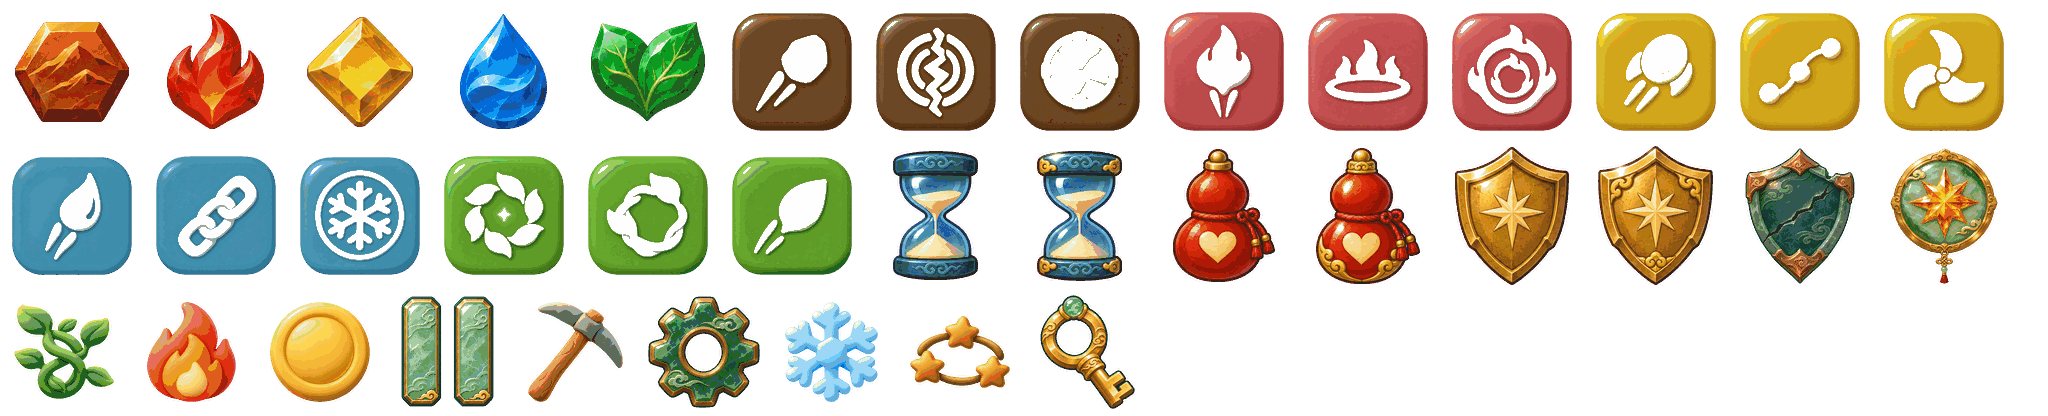
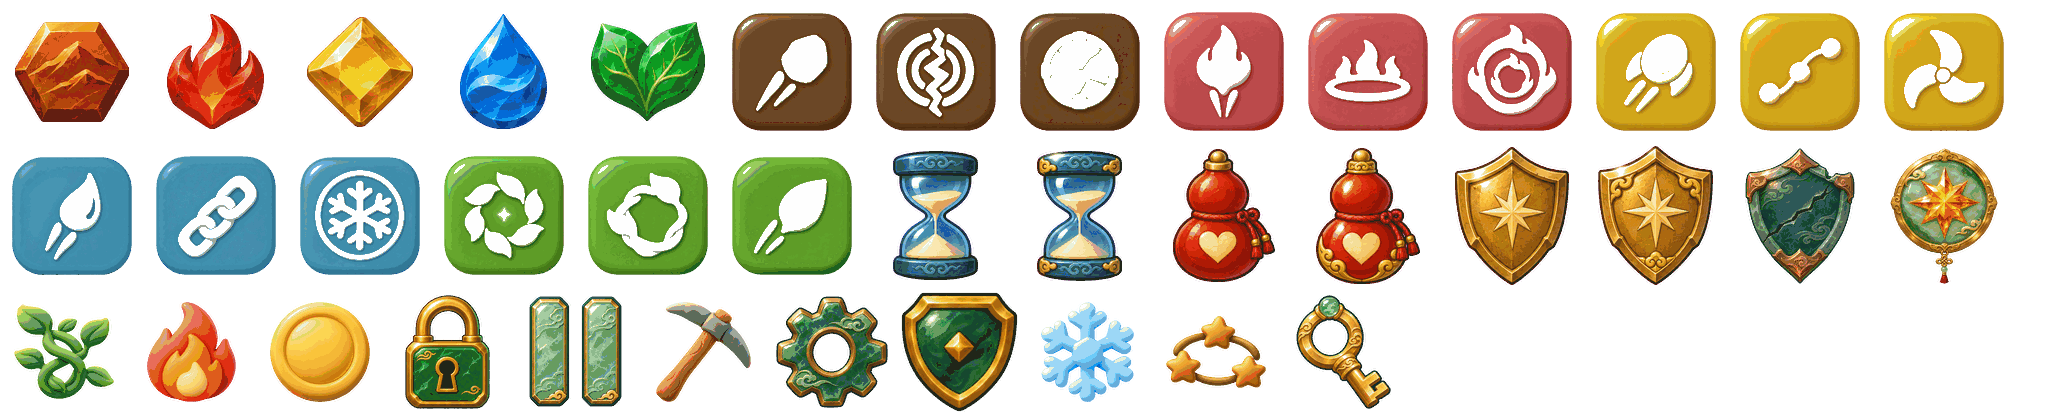
feat(ui): 替换战斗状态与关卡锁图标

diff --git a/scripts/ui/render.js b/scripts/ui/render.js
@@ -50,15 +50,14 @@ export function enemyHealthViewOf(e) { return e ? _enemyHv.get(e) || null : null
 import { LEVEL_META, WAVES_PER_LEVEL } from '../meta/levels.js'; // M11 UI 设计稿:关卡名/建议等级
 import { expNeed, levelFromExp } from '../meta/exp.js'; // M11 选关/备战顶栏经验条
 
-const ITEM_ICON = { heal: '❤', invincible: '✦', cd: '⏱' };
+const ITEM_ICON = { heal: '愈', invincible: '盾', cd: '时' };
 const TOAST_BOUNDS = { left: 180, top: 160, right: 540, bottom: 204 };
 const ITEM_STYLE = {
   heal: { plate: '#f8e9e6', timer: '#a45055' },
   invincible: { plate: '#f6eedb', timer: '#8a6a2a' },
   cd: { plate: '#e7eef7', timer: '#416e9c' },
 };
-// M14 界面图标贴图(assets/icons/ui/*.png 替换 emoji;表初始空,生产唯一填充入口=bindImages;
-// miss 时回退原 emoji 文字,不阻塞渲染)
+// 界面图标由 bindImages 加载，缺图时显示文字。
 const UI_IMG = {}; // M14 界面图标表(见上)
 // M15 Task 51:开始界面生图产物表(初始空,生产唯一填充入口=bindImages)。
 // 渲染回退仅覆盖「未绑定/未加载(complete=false)/解码失败(naturalWidth=0)」三种显示态→程序化兜底;
@@ -70,8 +69,7 @@ const MEADOW_IMG = { img: null };
 // -07 Q4:草地圆几何常量提升模块级(原 drawStartScreen 每帧新建对象)+ 兜底渐变缓存
 const MEADOW_CIRCLE = { x: 360, y: 1340, r: 280, spin: 0.12 };
 let MEADOW_FALLBACK_GRAD = null; // 程序化兜底草面渐变(按目标 ctx 缓存,同 ctx 复用)
-// 道具图标贴图(assets/icons/items/<item>[_premium].png 144×144;缺图回退 emoji 原样式;
-// 预载校验见 assets/manifest.js iconList)
+// 道具图标使用普通版或高级版贴图，缺图时显示简称。
 // ===== M11-03 F1 残留整改:生产导入路径零顶层加载 =====
 // 历史(两轮裁决):本模块顶层循环创建 Image 并立即赋 src——在 main 调 preload **之前**就发生
 // 119 次独立加载,绕过 loader 的 24 并发上限与重试(M11-01 F1)。「bindImages 兜底」注释与
@@ -183,17 +181,59 @@ const PLAYER_WALK_FRAMES = []; // 主角跑步循环 walk 6 帧(-07:开始界面
 const ENEMY_FRAMES = {};       // 六类敌人序列帧(缺图椭圆兜底)
 const seqFrame = (frames, t, fps) => frames[Math.floor(t * fps) % frames.length];
 
-// M14:行内资产图标+数字(coin/pick 贴图;返回文字起点 x 供继续排布;miss 回退 emoji 文字)
+// 行内资产图标。图标未加载时显示资产简称。
 // BEAUTIFY-01 F1(P1):y 语义=**图标顶边**(原按文字基线但调用处混传基线/顶部,战斗与养成
 // 图标整体偏高 17~21px 出 chip);统一按 chip 中心对齐:顶边=chipY+(chipH-size)/2
-function drawAssetIcon(ctx, key, emoji, x, y, size = 20) {
-  const img = UI_IMG[key];
-  if (img && img.complete && img.naturalWidth) {
-    ctx.drawImage(img, x, y, size, size);
-    return x + size + 6;
+function drawAssetIcon(ctx, key, x, y, size = 20) {
+  if (drawUiIcon(ctx, key, x, y, size)) return;
+  ctx.save();
+  ctx.fillStyle = '#794f27';
+  ctx.font = FONT(Math.round(size * 0.8), 'bold');
+  ctx.fillText(key === 'coin' ? '币' : '材', x, y + size - 3);
+  ctx.restore();
+}
+
+const ENEMY_STATUS_ICONS = [
+  { active: e => e.burn, key: 'burn', label: '灼', color: GEM_SRC.fire },
+  { active: e => e.slowT > 0, key: 'slow', label: '缓', color: GEM_SRC.water },
+  { active: e => e.bindT > 0, key: 'bind', label: '缚', color: GEM_SRC.wood },
+  { active: e => e.stunT > 0, key: 'stun', label: '晕', color: GEM_SRC.earth },
+];
+
+function drawEnemyStatuses(ctx, enemy, barY, transform, bounds) {
+  if (!enemy.burn && !(enemy.slowT > 0 || enemy.bindT > 0 || enemy.stunT > 0)) return;
+  const { ox, oy, scale } = transform;
+  const screenX = 360 + ox + (enemy.x - 360) * scale;
+  if (screenX < -40 || screenX > BOARD_W + 40) return;
+  const icons = ENEMY_STATUS_ICONS.filter(status => status.active(enemy));
+  const size = 22, step = 25, width = (icons.length - 1) * step + size;
+  const left = Math.max(6, Math.min(BOARD_W - 6 - width * scale, screenX - width * scale / 2));
+  const x = 360 + (left - 360 - ox) / scale;
+  const right = left + width * scale;
+  const height = size * scale;
+  let y = barY - size - 4;
+  let top = 224 + oy + (y - 224) * scale;
+  // 敌人挤在一起时，把后绘制的一排向上错开。
+  while (bounds.some(row => left < row.right + 3 && right > row.left - 3 &&
+    top < row.bottom + 3 && top + height > row.top - 3)) {
+    y -= size + 5;
+    top -= (size + 5) * scale;
   }
-  ctx.fillText(`${emoji} `, x, y + size - 3); // emoji 回退:基线≈顶边+size-3
-  return x + ctx.measureText(`${emoji} `).width;
+  if (top < BATTLE_ASSET_BAR_H + 4) return;
+  bounds.push({ left, right, top, bottom: top + height });
+  for (const [i, { key, label, color }] of icons.entries()) {
+    const iconX = x + i * step;
+    if (drawUiIcon(ctx, key, iconX, y, size)) continue;
+    ctx.save();
+    ctx.fillStyle = color;
+    ctx.strokeStyle = '#221d17';
+    ctx.lineWidth = 3;
+    ctx.font = FONT(16, 'bold');
+    ctx.textAlign = 'center';
+    ctx.strokeText(label, iconX + size / 2, y + 17);
+    ctx.fillText(label, iconX + size / 2, y + 17);
+    ctx.restore();
+  }
 }
 
 
@@ -489,6 +529,7 @@ export function render(ctx, engine, hud, dt = 1 / 60) {
   _ctxTag = `${scr}:${(hud.panel ? hud.panel() : '') ?? ''}:${hud.growPanel ? (hud.growPanel() ? 1 : 0) : 0}:${hud.paused ? (hud.paused() ? 1 : 0) : 0}`; // 按压态界面身份(屏:浮层:养成页:暂停;与 main tag 同源)
 
   if (inBattle) {
+  const enemyStatusBounds = [];
   // ===== 战斗区(FR-1.5 视差三层;screenshake/zoom pulse 变换) =====
   const tf = px ? px.transform() : { ox: 0, oy: 0, scale: 1 };
   ctx.save();
@@ -524,20 +565,7 @@ export function render(ctx, engine, hud, dt = 1 / 60) {
         _enemyHv.set(e, hv);
       }
       hv.draw(ctx, bx, by, bw, 6);
-      // 状态标记(03 文档 6.2b:4 种——灼烧🔥/减速❄/束缚🌿/眩晕💫;字段非零显示、清零消失;
-      // M8 配色整改:颜色引用 GEM_SRC 单一定义源,与元素语义一致)
-      // M14:状态标记改贴图(assets/icons/ui/;缺图回退 emoji 原样式)
-      const markY = e.y - t.srcH * t.scale / 2 - 24;
-      const drawMark = (cond, key, x, fallback, fill) => {
-        if (!cond) return;
-        const img = UI_IMG[key];
-        if (img && img.complete && img.naturalWidth) ctx.drawImage(img, x - 11, markY - 11, 22, 22);
-        else { ctx.fillStyle = fill; ctx.font = '16px sans-serif'; ctx.textAlign = 'center'; ctx.fillText(fallback, x, markY); ctx.textAlign = 'left'; }
-      };
-      drawMark(e.burn, 'burn', e.x + 30, '🔥', GEM_SRC.fire);
-      drawMark(e.slowT > 0, 'slow', e.x - 38, '❄', GEM_SRC.water);
-      drawMark(e.bindT > 0, 'bind', e.x - 57, '🌿', GEM_SRC.wood);
-      drawMark(e.stunT > 0, 'stun', e.x - 19, '💫', GEM_SRC.earth);
+      drawEnemyStatuses(ctx, e, by, tf, enemyStatusBounds);
     }
     // ===== 敌方弹幕(暗红光点,FR-1.2) =====
     for (const b of battle.ebolts) {
@@ -615,7 +643,7 @@ export function render(ctx, engine, hud, dt = 1 / 60) {
     ctx.font = FONT(17); ctx.fillStyle = '#9f927d';
     ctx.fillText('战斗产出实时入账', 84, TB.y + 29);
     let cxr = 704; // 右缘
-    for (const [val, icon, emoji, dispKey, bumpKey] of [[prof.materials, 'pick', '⛏', 'matDisp', 'matBump'], [prof.coins, 'coin', '💰', 'coinDisp', 'coinBump']]) {
+    for (const [val, icon, dispKey, bumpKey] of [[prof.materials, 'pick', 'matDisp', 'matBump'], [prof.coins, 'coin', 'coinDisp', 'coinBump']]) {
       const bankV = dropBank[dispKey] === null ? val : dropBank[dispKey];
       const label = `${Math.round(bankV)}`;
       ctx.font = FONT(19, 'bold');
@@ -627,7 +655,7 @@ export function render(ctx, engine, hud, dt = 1 / 60) {
       // 图标 bump(掉落到达:spring 放大→回弹,0.35s;-07 S1:关动效直接原尺寸,dt=0 不残留放大)
       const bp = dropBank[bumpKey];
       const iconScale = (_fxOn && bp > 0) ? 1 + 0.35 * Math.sin((1 - bp / 0.35) * Math.PI) : 1;
-      drawAssetIcon(ctx, icon, emoji, x + 12 + (20 - 20 * iconScale) / 2, y + 8 + (20 - 20 * iconScale) / 2, 20 * iconScale);
+      drawAssetIcon(ctx, icon, x + 12 + (20 - 20 * iconScale) / 2, y + 8 + (20 - 20 * iconScale) / 2, 20 * iconScale);
       ctx.fillStyle = '#794f27';
       ctx.fillText(label, x + 40, y + 24);
       // 记录 chip 图标锚点(掉落飞行目标;每帧**原地更新**不新建,-07 Q4)
@@ -645,7 +673,7 @@ export function render(ctx, engine, hud, dt = 1 / 60) {
   // M13 战斗区 HUD(头像/二段血条/关卡名/BOSS 条/技能框/波次进度;draw 自带快照,只读;
   // 自 2026-10-19 起整体下移 44px,避让上方货币栏条带)
   const combatHudBounds = hud.battleHud ? hud.battleHud.draw(ctx, hud) : [];
-  combatHudBounds.push(...BATTLE_BUTTON_BOUNDS);
+  combatHudBounds.push(...BATTLE_BUTTON_BOUNDS, ...enemyStatusBounds);
   if (hud.toast?.t > 0) combatHudBounds.push(TOAST_BOUNDS);
   const waveNotice = hud.battleHud?.waveNotice?.(hud);
   if (waveNotice) combatHudBounds.push(waveNotice);
@@ -851,7 +879,7 @@ export function render(ctx, engine, hud, dt = 1 / 60) {
 
   // 特效层(REQ-M7-01 F5:关动效 fxEnabled=false 时**停止绘制**存量粒子/冒字——
   // main 侧事件仍照常排空丢弃,6.1「冒字与粒子同步关闭」)
-  if (hud.fx && engine.fxEnabled !== false) hud.fx.draw(ctx, combatHudBounds);
+  if (hud.fx && engine.fxEnabled !== false) hud.fx.draw(ctx, combatHudBounds, UI_IMG);
   ctx.restore(); // M9 棋盘微震变换结束(播报光带/文字随棋盘震,底栏不参与)
   if (engine.fxEnabled !== false) hud.fx?.drawCastFlights?.(ctx);
   if (waveNotice) hud.battleHud.drawWaveNotice(ctx, waveNotice);
@@ -1015,7 +1043,7 @@ function drawGrowPanel(ctx, hud, dt = 1 / 60) {
     ctx.fillStyle = '#fff';
     roundRect(ctx, c.x + shake, chipY, c.w, chipH, 22); ctx.fill();
     ctx.strokeStyle = '#e8e2d6'; ctx.lineWidth = 2; roundRect(ctx, c.x + shake, chipY, c.w, chipH, 22); ctx.stroke();
-    drawAssetIcon(ctx, c.icon, c.kind === 'coin' ? '💰' : '⛏', c.x + shake + 14, chipY + 12, 24); // 顶边:图标中心=chip 中心(chipY+24)
+    drawAssetIcon(ctx, c.icon, c.x + shake + 14, chipY + 12, 24); // 图标中心与资产栏对齐
     ctx.fillStyle = '#794f27';
     ctx.fillText(c.label, c.x + shake + 48, chipY + 32);
   }
@@ -1744,9 +1772,10 @@ function drawMenuScreen(ctx, hud) {
     // 需求方 2026-10-19 第三批:缩略图=该关 Boss 类型帧首帧(LEVEL_BOSS:fox/zombie/snake/tiger/boss)
     const bossImg = ENEMY_FRAMES[bossType(i)] && ENEMY_FRAMES[bossType(i)][0]; // 循环变量 i=关卡号
     if (!unlocked) {
-      ctx.fillStyle = hasScene ? '#fff2d7' : '#816f57'; ctx.font = FONT(34);
-      ctx.fillText('🔒', tx + th / 2, tyy + th / 2 + 4);
-      ctx.font = FONT(18); ctx.fillText('未解锁', tx + th / 2, tyy + th / 2 + 40);
+      const lock = drawUiIcon(ctx, 'lock', tx + th / 2 - 27, tyy + th / 2 - 39, 54);
+      ctx.fillStyle = hasScene ? '#fff2d7' : '#816f57';
+      ctx.font = FONT(18, 'bold');
+      ctx.fillText('未解锁', tx + th / 2, tyy + th / 2 + (lock ? 40 : 6));
     } else if (bossImg && bossImg.complete && bossImg.naturalWidth > 0) {
       ctx.save();
       roundRect(ctx, tx, tyy, th, th, 16); ctx.clip();

diff --git a/scripts/ui/fx.js b/scripts/ui/fx.js
@@ -10,22 +10,22 @@ import { ImpactEffects } from './combat_fx.js';
 
 // 伤害冒字样式表(03 文档 6.2a/6.2b;**全部五行语义色引用 draw_util GEM_COLORS 单一定义源**,
 // REQ-M7-02 F6:灼烧/吸血/光环/护盾/状态标记不再硬编码;非五行语义色[免伤/受击/击破]为独立字面值)
-// kind → {color, fmt, imp, size};n=实际变化量(6.4),el=元素(直击/溅射/锁链/脉冲/灼烧区)
+// n 为实际变化量，el 为元素。状态贴图和文字共用一条飘字。
 const FT_STYLE = {
   dmg:        { color: ev => GEM_FLOAT[ev.el] || '#ffffff', fmt: ev => `-${ev.n}`, imp: 1, size: 32 },
   splash:     { color: ev => GEM_FLOAT[ev.el] || '#ffffff', fmt: ev => `-${ev.n}`, imp: 0, size: 20 },
-  burn:       { color: () => GEM_FLOAT.fire, fmt: ev => `🔥${ev.n}`, imp: 0, size: 28 },
-  bindDot:    { color: ev => GEM_FLOAT[ev.el] || GEM_FLOAT.wood, fmt: ev => `🌿${ev.n}`, imp: 0, size: 28 },
+  burn:       { color: () => GEM_FLOAT.fire, fmt: ev => String(ev.n), icon: 'burn', fallback: '灼烧', imp: 0, size: 28 },
+  bindDot:    { color: ev => GEM_FLOAT[ev.el] || GEM_FLOAT.wood, fmt: ev => String(ev.n), icon: 'bind', fallback: '束缚', imp: 0, size: 28 },
   leech:      { color: () => GEM_FLOAT.wood, fmt: ev => `+${ev.n}`, imp: 1, size: 32 },
   aura:       { color: () => GEM_FLOAT.wood, fmt: ev => `+${ev.n}`, imp: 0, size: 28 },
-  shieldGain: { color: () => GEM_FLOAT.earth, fmt: ev => `🛡+${ev.n}`, imp: 1, size: 32 },
-  absorb:     { color: () => GEM_FLOAT.earth, fmt: ev => `🛡${ev.n}`, imp: 1, size: 32 },
+  shieldGain: { color: () => GEM_FLOAT.earth, fmt: ev => `+${ev.n}`, icon: 'shield', fallback: '护盾', imp: 1, size: 32 },
+  absorb:     { color: () => GEM_FLOAT.earth, fmt: ev => String(ev.n), icon: 'shield', fallback: '吸收', imp: 1, size: 32 },
   hurt:       { color: () => '#ff8888', fmt: ev => `-${ev.n}`, imp: 1, size: 32 },
   immune:     { color: () => '#ffd700', fmt: () => `免伤`, imp: 2, size: 40 },
   kill:       { color: () => '#ffffff', fmt: () => `击破`, imp: 2, size: 40 },
-  slowMark:   { color: () => GEM_FLOAT.water, fmt: () => `❄减速`, imp: 0, size: 28 },
-  bindMark:   { color: () => GEM_FLOAT.wood, fmt: () => `🌿束缚`, imp: 1, size: 28 },
-  stunMark:   { color: () => GEM_FLOAT.earth, fmt: () => `💫眩晕`, imp: 1, size: 28 },
+  slowMark:   { color: () => GEM_FLOAT.water, fmt: () => '减速', icon: 'slow', imp: 0, size: 28 },
+  bindMark:   { color: () => GEM_FLOAT.wood, fmt: () => '束缚', icon: 'bind', imp: 1, size: 28 },
+  stunMark:   { color: () => GEM_FLOAT.earth, fmt: () => '眩晕', icon: 'stun', imp: 1, size: 28 },
 };
 
 // ===== M8 冒字运动参数(2026-10-17 需求方选定「方案 A 喷射衰减+暴击」;同日追加口径:整条一体)=====
@@ -252,7 +252,7 @@ export class FxLayer {
     const jitter = ev.jitter ?? (ev.fromAngle != null ? 0.7 : 0.8);
     const base = ev.fromAngle != null ? ev.fromAngle : -Math.PI / 2; // 缺省向上
     const text = st.fmt(ev);
-    const charN = [...text].length; // 字符数(上限 64 仍按"位"计数口径,6.1)
+    const charN = [...text].length + Number(!!st.icon); // 图标占一位，维持 64 位上限。
     // 防重叠(6.1):同位置(±24px)已有冒字则向上推 min(fy, ft.y - size×1.1)
     let y = ev.y;
     for (const t of this.combatTexts) {
@@ -274,7 +274,7 @@ export class FxLayer {
     const a = base + (Math.random() - 0.5) * 2 * jitter;
     const v0 = speed * FT_V0_MULT * (0.92 + Math.random() * 0.16); // 初速 ±8% 自然散布
     this.combatTexts.push({
-      x: ev.x, y, text, color, size, imp, crit, seq: this._seq, charN,
+      x: ev.x, y, text, icon: st.icon, fallback: st.fallback, color, size, imp, crit, seq: this._seq, charN,
       t: 0, life,
       vx: Math.cos(a) * v0, vy: Math.sin(a) * v0, peak,
     });
@@ -336,7 +336,7 @@ export class FxLayer {
     return 1;
   }
 
-  draw(ctx, combatHudBounds = []) {
+  draw(ctx, combatHudBounds = [], combatIcons) {
     if (this.particles.length) {
       ctx.save();
       ctx.beginPath();
@@ -391,10 +391,15 @@ export class FxLayer {
       ctx.font = `bold ${font}px 'Nunito','Noto Sans SC',sans-serif`;
       const outline = Math.max(3, Math.round(font / 8));
       const edge = c.color === GEM_FLOAT.earth ? outline + 3 : outline;
-      const metrics = ctx.measureText(c.text);
+      const img = c.icon && combatIcons?.[c.icon];
+      const hasIcon = img?.complete && img.naturalWidth > 0;
+      const iconSize = hasIcon ? Math.round(font * 0.9) : 0;
+      const lead = hasIcon ? iconSize + Math.max(3, Math.round(font * 0.12)) : 0;
+      const label = !hasIcon && c.fallback ? `${c.fallback} ${c.text}` : c.text;
+      const metrics = ctx.measureText(label);
       const half = metrics.width / 2;
-      const leftPad = Math.max(half, metrics.actualBoundingBoxLeft ?? 0) + edge / 2;
-      const rightPad = Math.max(half, metrics.actualBoundingBoxRight ?? 0) + edge / 2;
+      const leftPad = Math.max(half, metrics.actualBoundingBoxLeft ?? 0) + (edge + lead) / 2;
+      const rightPad = Math.max(half, metrics.actualBoundingBoxRight ?? 0) + (edge + lead) / 2;
       const ascent = Math.max(font, metrics.actualBoundingBoxAscent ?? 0) + edge / 2;
       const descent = Math.max(font * 0.18, metrics.actualBoundingBoxDescent ?? 0) + edge / 2;
       const minX = leftPad + 6, maxX = BOARD_W - rightPad - 6;
@@ -421,16 +426,18 @@ export class FxLayer {
       }
       occupied.push({ left: x - leftPad, right: x + rightPad, top: y - ascent, bottom: y + descent });
       ctx.globalAlpha = p < FT_FADE_FROM ? 1 : Math.max(0, 1 - (p - FT_FADE_FROM) / (1 - FT_FADE_FROM));
+      if (hasIcon) ctx.drawImage(img, x - leftPad + edge / 2, y - font * 0.82, iconSize, iconSize);
+      const textX = x + lead / 2;
       if (edge > outline) {
         ctx.strokeStyle = '#fff0d1';
         ctx.lineWidth = edge;
-        ctx.strokeText(c.text, x, y);
+        ctx.strokeText(label, textX, y);
       }
       ctx.strokeStyle = '#000';
       ctx.lineWidth = outline;
-      ctx.strokeText(c.text, x, y);
+      ctx.strokeText(label, textX, y);
       ctx.fillStyle = c.color;
-      ctx.fillText(c.text, x, y);
+      ctx.fillText(label, textX, y);
     }
     ctx.globalAlpha = 1;
     // M9 连锁播报绘制(王者定版:左滑入→overshoot 定版→停留→上浮淡出;M9-F5:滑入含水平位移、

diff --git a/scripts/ui/battle_hud.js b/scripts/ui/battle_hud.js
@@ -14,8 +14,8 @@ export const BATTLE_H = 448; // 战斗区高度(与 parallax BATTLE_H 同口径;
 const SLOT_X = 392, SLOT_Y = 330, SLOT_SIZE = 72, SLOT_STEP = 78;
 const ITEM_STATUS_Y = 212, ITEM_STATUS_H = 36;
 const ITEM_STATUS = {
-  invincible: { x: 228, w: 116, bg: '#5c431e', edge: '#e7be72', mark: '✦' },
-  cd: { x: 352, w: 142, bg: '#214863', edge: '#9dd4ef', mark: '⏱' },
+  invincible: { x: 228, w: 116, bg: '#5c431e', edge: '#e7be72' },
+  cd: { x: 352, w: 142, bg: '#214863', edge: '#9dd4ef' },
 };
 const WAVE_CUE_DURATION = { opening: 0.84, normal: 0.56, boss: 1.24 };
 const WAVE_NOTICE_PALETTE = {
@@ -114,7 +114,7 @@ export function bindHudImages(map) {
 export { LEVEL_THEMES, themeOf } from '../meta/levels.js';
 
 function drawItemStatus(ctx, hud, kind, label, remaining) {
-  const { x, w, bg, edge, mark } = ITEM_STATUS[kind];
+  const { x, w, bg, edge } = ITEM_STATUS[kind];
   const y = ITEM_STATUS_Y;
   ctx.fillStyle = bg;
   _rr(ctx, x, y, w, ITEM_STATUS_H, 10);
@@ -123,17 +123,12 @@ function drawItemStatus(ctx, hud, kind, label, remaining) {
   ctx.lineWidth = 2;
   ctx.stroke();
   const img = hud.itemImg?.(kind);
-  if (img?.complete && img.naturalWidth > 0) {
-    ctx.drawImage(img, x + 5, y + 4, 28, 28);
-  } else {
-    ctx.font = "bold 20px 'Nunito','Noto Sans SC',sans-serif";
-    ctx.fillStyle = edge;
-    ctx.fillText(mark, x + 8, y + 25);
-  }
+  const hasIcon = img?.complete && img.naturalWidth > 0;
+  if (hasIcon) ctx.drawImage(img, x + 5, y + 4, 28, 28);
   ctx.font = "bold 18px 'Nunito','Noto Sans SC',sans-serif";
   ctx.fillStyle = '#fff7e8';
   const time = (Math.ceil(remaining * 10) / 10).toFixed(1);
-  ctx.fillText(`${label} ${time}s`, x + 33, y + 24);
+  ctx.fillText(`${label} ${time}s`, x + (hasIcon ? 33 : 12), y + 24);
   return { left: x - 1, right: x + w + 1, top: y - 1, bottom: y + ITEM_STATUS_H + 1 };
 }
 

diff --git a/scripts/assets/manifest.js b/scripts/assets/manifest.js
@@ -14,8 +14,8 @@ export const PLAYER_FRAMES = {
 };
 
 export const UI_ICON_NAMES = [
-  'pause', 'settings', 'coin', 'pick', 'burn', 'slow', 'bind', 'stun',
-  'victory_badge', 'defeat_badge', 'unlock_key',
+  'pause', 'settings', 'coin', 'pick', 'burn', 'slow', 'bind', 'stun', 'shield',
+  'victory_badge', 'defeat_badge', 'unlock_key', 'lock',
 ];
 
 // 敌人帧清单(来自 ENEMY_TYPES,路径格式 assets/sprites/<目录>/<前缀>_%03d_nobg.png)

diff --git a/sw.js b/sw.js
@@ -6,7 +6,7 @@
 // 相对路径: sw.js(仓库根,scope=部署目录;本地 dev 与 Pages 子路径均成立)
 
 const CACHE_PREFIX = 'ssww-cache-';
-const CACHE_VERSION = 'v9';
+const CACHE_VERSION = 'v10';
 const CACHE_NAME = CACHE_PREFIX + CACHE_VERSION;
 
 function fetchCurrent(req) {

diff --git a/docs/changelog.md b/docs/changelog.md
@@ -374,3 +374,4 @@
 - 首关加入可跳过的首次消除引导。棋盘提示真实可行的交换，底栏跟随消除和实际出招更新。完成或跳过后保存进度。
 - 交换、消除和连锁使用不同的音符与节奏。五行命中各有短音色，同帧优先播放暴击和首领命中。暂停战斗时音乐暂停，音效开关会立即清掉余音。
 - 战斗暂停和设置改用青玉铜边图标。结算新增胜败徽记，关卡解锁用金钥匙替换表情符号。
+- 战斗飘字使用对应的状态贴图，护盾飘字新增青玉盾。敌人头顶的状态图标在血条上方排成一行，飘字会避让。选关卡片新增青玉锁，站点缓存更新至 v10。
